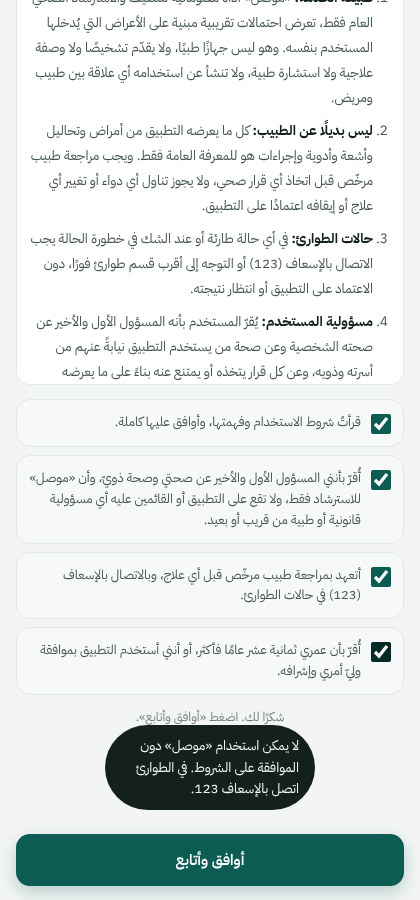
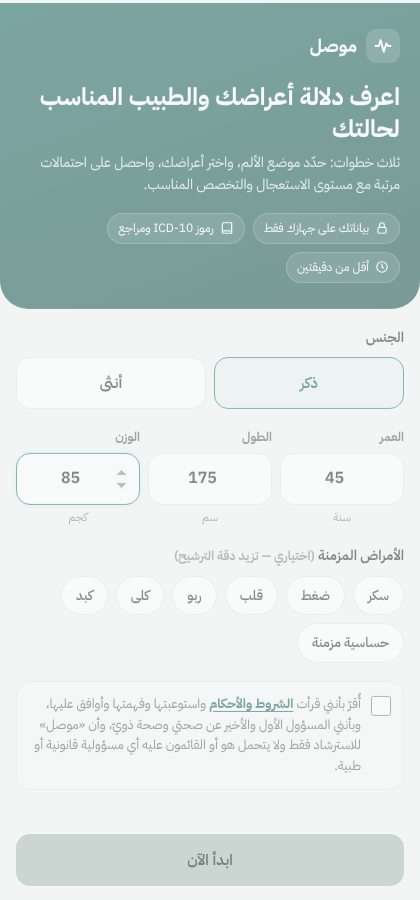
الشروط والأحكام: خانة إقرار واحدة برابط يفتح البنود كاملة بدل أربع خانات

diff --git a/app.js b/app.js
@@ -30,12 +30,8 @@ const TERMS = [
   ["القانون الواجب التطبيق", "تخضع هذه الشروط لقوانين جمهورية مصر العربية، وتختص المحاكم المصرية بنظر أي نزاع ينشأ عنها."],
   ["تعديل الشروط", "يجوز تعديل هذه الشروط في أي وقت، ويُطلب من المستخدم الموافقة على النسخة الجديدة قبل مواصلة الاستخدام. واستمرار الاستخدام بعد الموافقة يعني القبول الكامل بها."]
 ];
-const TERMS_CHECKS = [
-  "قرأتُ شروط الاستخدام وفهمتها، وأوافق عليها كاملة.",
-  "أُقرّ بأنني المسؤول الأول والأخير عن صحتي وصحة ذويّ، وأن «موصل» للاسترشاد فقط، ولا تقع على التطبيق أو القائمين عليه أي مسؤولية قانونية أو طبية من قريب أو بعيد.",
-  "أتعهد بمراجعة طبيب مرخّص قبل أي علاج، وبالاتصال بالإسعاف (123) في حالات الطوارئ.",
-  "أُقرّ بأن عمري ثمانية عشر عامًا فأكثر، أو أنني أستخدم التطبيق بموافقة وليّ أمري وإشرافه."
-];
+/* الإقرار الوحيد في شاشة البداية؛ «الشروط والأحكام» فيه رابط يفتح البنود كاملة */
+const TERMS_ACK = "أُقرّ بأنني قرأت {link} واستوعبتها وفهمتها وأوافق عليها، وبأنني المسؤول الأول والأخير عن صحتي وصحة ذويّ، وأن «موصل» للاسترشاد فقط ولا يتحمل هو أو القائمون عليه أي مسؤولية قانونية أو طبية.";
 const MAX_FOLLOWUP_ROUNDS = 4;
 const QUICK_ACCESS = [
   { key: "sexual", title: "الصحة الجنسية — بسرية تامة", sub: "إفرازات، قروح، ثآليل، عدوى منقولة جنسيًا؛ لا يُحفظ شيء" },
@@ -388,10 +384,9 @@ try { terms = JSON.parse(localStorage.getItem(TERMS_KEY) || "null"); } catch (e)
 const termsOk = () => !!(terms && terms.v === TERMS_VERSION);
 
 const state = {
-  screen: !termsOk() ? "terms" : saved ? "home" : "onboarding",
-  termsChecks: TERMS_CHECKS.map(() => false), termsView: false,
+  screen: saved && termsOk() ? "home" : "onboarding",
   profile: saved || { gender: null, age: "", height: "", weight: "", chronic: [] },
-  consent: !!saved || termsOk(),
+  consent: termsOk(),
   editingProfile: false,
   region: null, zone: null,
   checked: new Set(), denied: new Set(), asked: new Set(),
@@ -534,7 +529,7 @@ function commitAnswers() {
 function go(screen) { state.screen = screen; render(); }
 function back() {
   const s = state.screen;
-  if (s === "terms") { state.termsView = false; go(state.prev || "about"); }
+  if (s === "terms") go(state.prev || "about");
   else if (s === "about" || s === "stages") go(state.prev || "home");
   else if (s === "results" || s === "followup") { state.round = 0; state.asked = new Set(); state.denied = new Set(); state.answers = {}; go("symptoms"); }
   else if (s === "symptoms") { resetCase(); state.zone = null; go(state.region ? "sections" : "home"); }
@@ -564,7 +559,7 @@ function stepIndex() {
   return { sections: 1, symptoms: 2, followup: 2, results: 3 }[state.screen];
 }
 function renderTopbar() {
-  if (state.screen === "onboarding" || (state.screen === "terms" && !state.termsView)) { $topbar.hidden = true; return; }
+  if (state.screen === "onboarding") { $topbar.hidden = true; return; }
   $topbar.hidden = false;
   if (state.screen === "home") {
     $topbar.innerHTML = `<div class="bar-row">
@@ -581,7 +576,7 @@ function renderTopbar() {
     followup: "أسئلة للتأكد",
     results: "النتيجة",
     about: "عن موصل والمصادر",
-    stages: "حاسبة المراحل", terms: "شروط الاستخدام"
+    stages: "حاسبة المراحل", terms: "الشروط والأحكام"
   }[state.screen] || "";
   const si = stepIndex();
   $topbar.innerHTML = `<div class="bar-row">
@@ -605,26 +600,19 @@ function setCta(text, onClick, disabled) {
    الشاشات
    ========================================================= */
 function renderTerms() {
-  const view = state.termsView;
-  const all = state.termsChecks.every(Boolean);
+  const accepted = termsOk();
+  const when = accepted && terms.at ? " بتاريخ " + esc(new Date(terms.at).toLocaleDateString("ar-EG", { year: "numeric", month: "long", day: "numeric" })) : "";
   $content.innerHTML = `<div class="fade-in terms">
-    <div class="onb-hero"><div class="brand"><div class="logo">${ico(I.pulse, 2.4)}</div><div class="brand-name">موصل</div></div>
-      <h1>شروط الاستخدام وإخلاء المسؤولية</h1>
-      <p>${view ? `وافقت على هذه الشروط (الإصدار ${TERMS_VERSION})${terms && terms.at ? " بتاريخ " + esc(new Date(terms.at).toLocaleDateString("ar-EG", { year: "numeric", month: "long", day: "numeric" })) : ""}.` : "يُرجى قراءة الشروط التالية بعناية. لا يمكن استخدام التطبيق دون الموافقة عليها."}</p></div>
+    <div class="onb-hero"><h1>الشروط والأحكام</h1>
+      <p>${accepted ? `وافقت على هذه الشروط (الإصدار ${TERMS_VERSION})${when}.` : "يُرجى قراءة البنود التالية بعناية؛ استخدامك لـ«موصل» يعني موافقتك عليها كاملة."}</p></div>
     <ol class="terms-list">${TERMS.map(([h, t]) => `<li><b>${esc(h)}:</b> ${esc(t)}</li>`).join("")}</ol>
-    ${view ? `<div style="text-align:center;margin-top:12px"><button class="btn btn-ghost" data-act="back">رجوع</button></div>` : `
-    <div class="terms-checks">${TERMS_CHECKS.map((t, i) => `<label class="consent"><input type="checkbox" data-term="${i}" ${state.termsChecks[i] ? "checked" : ""}><span>${esc(t)}</span></label>`).join("")}</div>
-    <p class="small muted" id="terms-hint" style="text-align:center">${all ? "شكرًا لك. اضغط «أوافق وأتابع»." : "يجب تحديد جميع الإقرارات للمتابعة."}</p>
-    <div style="text-align:center"><button class="link-btn" data-act="decline">لا أوافق</button></div>`}
   </div>`;
-  if (view) setCta(null); else setCta("أوافق وأتابع", acceptTerms, !all);
+  if (accepted) setCta(null);
+  else setCta("قرأتها وفهمتها وأنا المسؤول", () => { state.consent = true; go("onboarding"); }, false);
 }
-function acceptTerms() {
-  if (!state.termsChecks.every(Boolean)) return;
-  terms = { v: TERMS_VERSION, at: new Date().toISOString(), checks: TERMS_CHECKS.length };
+function saveTerms() {
+  terms = { v: TERMS_VERSION, at: new Date().toISOString() };
   try { localStorage.setItem(TERMS_KEY, JSON.stringify(terms)); } catch (e) { /* ignore */ }
-  state.consent = true;
-  go(saved || profileValid(state.profile) ? "home" : "onboarding");
 }
 
 function renderOnboarding() {
@@ -656,18 +644,19 @@ function renderOnboarding() {
     </div></div>
     <div class="field"><span class="flabel" id="lc">الأمراض المزمنة <span class="muted small">(اختياري — تزيد دقة الترشيح)</span></span>
       <div class="chips" role="group" aria-labelledby="lc">${CHRONIC_OPTIONS.map(c => `<button class="chip" data-chronic="${esc(c)}" aria-pressed="${p.chronic.includes(c)}">${esc(c)}</button>`).join("")}</div></div>
-    ${state.editingProfile || termsOk() ? "" : `<label class="consent"><input type="checkbox" id="consent" ${state.consent ? "checked" : ""}>
-      <span>أُقرّ بأن «موصل» <b>أداة توجيه أولية وليس تشخيصًا طبيًا</b>، ولا يغني عن زيارة الطبيب، وفي الطوارئ سأتصل بالإسعاف ${EMERGENCY_NUMBER}.</span></label>`}
+    ${state.editingProfile && termsOk() ? "" : `<label class="consent"><input type="checkbox" id="consent" ${state.consent ? "checked" : ""}>
+      <span>${esc(TERMS_ACK).replace("{link}", `<button type="button" class="link-btn terms-link" data-act="terms">الشروط والأحكام</button>`)}</span></label>`}
     ${state.editingProfile ? `<div style="text-align:center;margin-top:8px"><button class="link-btn" data-act="cancel-edit">رجوع دون حفظ</button></div>` : ""}
   </div>`;
   updateOnboardCta();
 }
 function updateOnboardCta() {
-  const ok = profileValid(state.profile) && (state.editingProfile || state.consent);
+  const ok = profileValid(state.profile) && (termsOk() || state.consent);
   setCta(state.editingProfile ? "حفظ التعديلات" : "ابدأ الآن", submitProfile, !ok);
 }
 function submitProfile() {
-  if (!profileValid(state.profile)) return;
+  if (!profileValid(state.profile) || !(termsOk() || state.consent)) return;
+  if (!termsOk()) saveTerms();
   try { localStorage.setItem(PROFILE_KEY, JSON.stringify(state.profile)); } catch (e) { /* ignore */ }
   const wasEditing = state.editingProfile;
   state.editingProfile = false;
@@ -1144,7 +1133,7 @@ async function shareReport() {
 function render() {
   renderTopbar();
   const s = state.screen;
-  if (s !== "terms" && !termsOk()) { state.screen = "terms"; return render(); }
+  if (s !== "terms" && s !== "onboarding" && !termsOk()) { state.screen = "onboarding"; return render(); }
   if (s === "terms") renderTerms();
   else if (s === "onboarding") renderOnboarding();
   else if (s === "home") renderHome();
@@ -1182,9 +1171,7 @@ document.addEventListener("click", e => {
     case "home": return restart();
     case "about": state.prev = state.screen; return go("about");
     case "stages": state.prev = state.screen; return go("stages");
-    case "terms": state.prev = state.screen; state.termsView = true; return go("terms");
-    case "decline":
-      return toast("لا يمكن استخدام «موصل» دون الموافقة على الشروط. في الطوارئ اتصل بالإسعاف 123.");
+    case "terms": e.preventDefault(); state.prev = state.screen; return go("terms");
     case "edit": state.editingProfile = true; return go("onboarding");
     case "cancel-edit":
       try { state.profile = JSON.parse(localStorage.getItem(PROFILE_KEY)) || state.profile; } catch (err) { /* ignore */ }
@@ -1226,10 +1213,6 @@ document.addEventListener("input", e => {
     updateOnboardCta();
   }
   if (t.id === "consent") { state.consent = t.checked; updateOnboardCta(); }
-  if (t.dataset && t.dataset.term !== undefined) { state.termsChecks[+t.dataset.term] = t.checked;
-    const all = state.termsChecks.every(Boolean), h = document.getElementById("terms-hint");
-    if (h) h.textContent = all ? "شكرًا لك. اضغط «أوافق وأتابع»." : "يجب تحديد جميع الإقرارات للمتابعة.";
-    setCta("أوافق وأتابع", acceptTerms, !all); }
   if (t.dataset && t.dataset.stage) { state.stages[t.dataset.stage] = t.value; renderStageOut(); }
   if (t.dataset && "stageKnown" in t.dataset) { state.stages.known = t.checked; renderStageOut(); }
 });

diff --git a/index.html b/index.html
@@ -128,10 +128,11 @@ a{color:var(--brand-ink);}
 .chips{display:flex; flex-wrap:wrap; gap:8px;}
 .chip{border:1.5px solid var(--line); background:var(--surface); border-radius:999px; padding:8px 14px; font-size:13.5px; font-weight:500; cursor:pointer;}
 .chip[aria-pressed="true"]{border-color:var(--brand-500); background:var(--brand-50); color:var(--brand-ink); font-weight:600;}
-.terms-list{margin:6px 0 14px; padding:14px 14px 14px 10px; padding-inline-start:30px; background:var(--surface); border:1px solid var(--line); border-radius:var(--r); max-height:46vh; overflow:auto; font-size:13.5px; line-height:1.85; color:var(--ink-2);}
+.terms-list{margin:6px 0 14px; padding:14px 14px 14px 10px; padding-inline-start:30px; background:var(--surface); border:1px solid var(--line); border-radius:var(--r); font-size:13.5px; line-height:1.85; color:var(--ink-2);}
 .terms-list li{margin-bottom:8px;}
+.consent .terms-link{display:inline; padding:0; font:inherit; font-weight:700; text-decoration:underline;}
 .terms-list b{color:var(--ink);}
-.terms-checks{display:grid; gap:8px; margin-bottom:8px;}
+
 .terms .onb-hero h1{font-size:21px;}
 @media print{.terms-list{max-height:none; overflow:visible}}
 .consent{display:flex; gap:10px; align-items:flex-start; background:var(--surface-2); border:1px solid var(--line); border-radius:var(--r); padding:12px; font-size:13px; color:var(--ink-2); cursor:pointer;}

diff --git a/docs/TERMS.md b/docs/TERMS.md
@@ -1,6 +1,10 @@
-# موصل — شروط الاستخدام وإخلاء المسؤولية (الإصدار 1.0)
+# موصل — الشروط والأحكام (الإصدار 1.0)
 
-يُعرض هذا النص على المستخدم عند أول فتح للتطبيق، ولا يمكنه المتابعة إلا بعد تحديد الإقرارات الأربعة والضغط على «أوافق وأتابع». تُحفظ الموافقة (رقم الإصدار والتاريخ) على جهاز المستخدم، ويُعاد طلبها عند تغيير الإصدار.
+في شاشة البداية خانة إقرار واحدة إلزامية، وفيها رابط «الشروط والأحكام» يفتح البنود كاملة. لا يبدأ استخدام التطبيق إلا بعد تحديدها. تُحفظ الموافقة (رقم الإصدار والتاريخ) على جهاز المستخدم، ويُعاد طلبها عند تغيير الإصدار.
+
+## نص الإقرار
+
+- [ ] أُقرّ بأنني قرأت الشروط والأحكام واستوعبتها وفهمتها وأوافق عليها، وبأنني المسؤول الأول والأخير عن صحتي وصحة ذويّ، وأن «موصل» للاسترشاد فقط ولا يتحمل هو أو القائمون عليه أي مسؤولية قانونية أو طبية.
 
 ## البنود
 
@@ -16,13 +20,6 @@
 10. **الملكية الفكرية:** جميع حقوق التطبيق ومحتواه وتصميمه وبياناته محفوظة لمالكه. ويُمنع نسخه أو إعادة نشره أو استخدامه في منتج آخر، كليًا أو جزئيًا، دون إذن كتابي مسبق.
 11. **القانون الواجب التطبيق:** تخضع هذه الشروط لقوانين جمهورية مصر العربية، وتختص المحاكم المصرية بنظر أي نزاع ينشأ عنها.
 12. **تعديل الشروط:** يجوز تعديل هذه الشروط في أي وقت، ويُطلب من المستخدم الموافقة على النسخة الجديدة قبل مواصلة الاستخدام. واستمرار الاستخدام بعد الموافقة يعني القبول الكامل بها.
-
-## الإقرارات (إلزامية)
-
-- [ ] قرأتُ شروط الاستخدام وفهمتها، وأوافق عليها كاملة.
-- [ ] أُقرّ بأنني المسؤول الأول والأخير عن صحتي وصحة ذويّ، وأن «موصل» للاسترشاد فقط، ولا تقع على التطبيق أو القائمين عليه أي مسؤولية قانونية أو طبية من قريب أو بعيد.
-- [ ] أتعهد بمراجعة طبيب مرخّص قبل أي علاج، وبالاتصال بالإسعاف (123) في حالات الطوارئ.
-- [ ] أُقرّ بأن عمري ثمانية عشر عامًا فأكثر، أو أنني أستخدم التطبيق بموافقة وليّ أمري وإشرافه.
 
 ---
 جميع الحقوق محفوظة © 2026 مارو شهلي.
